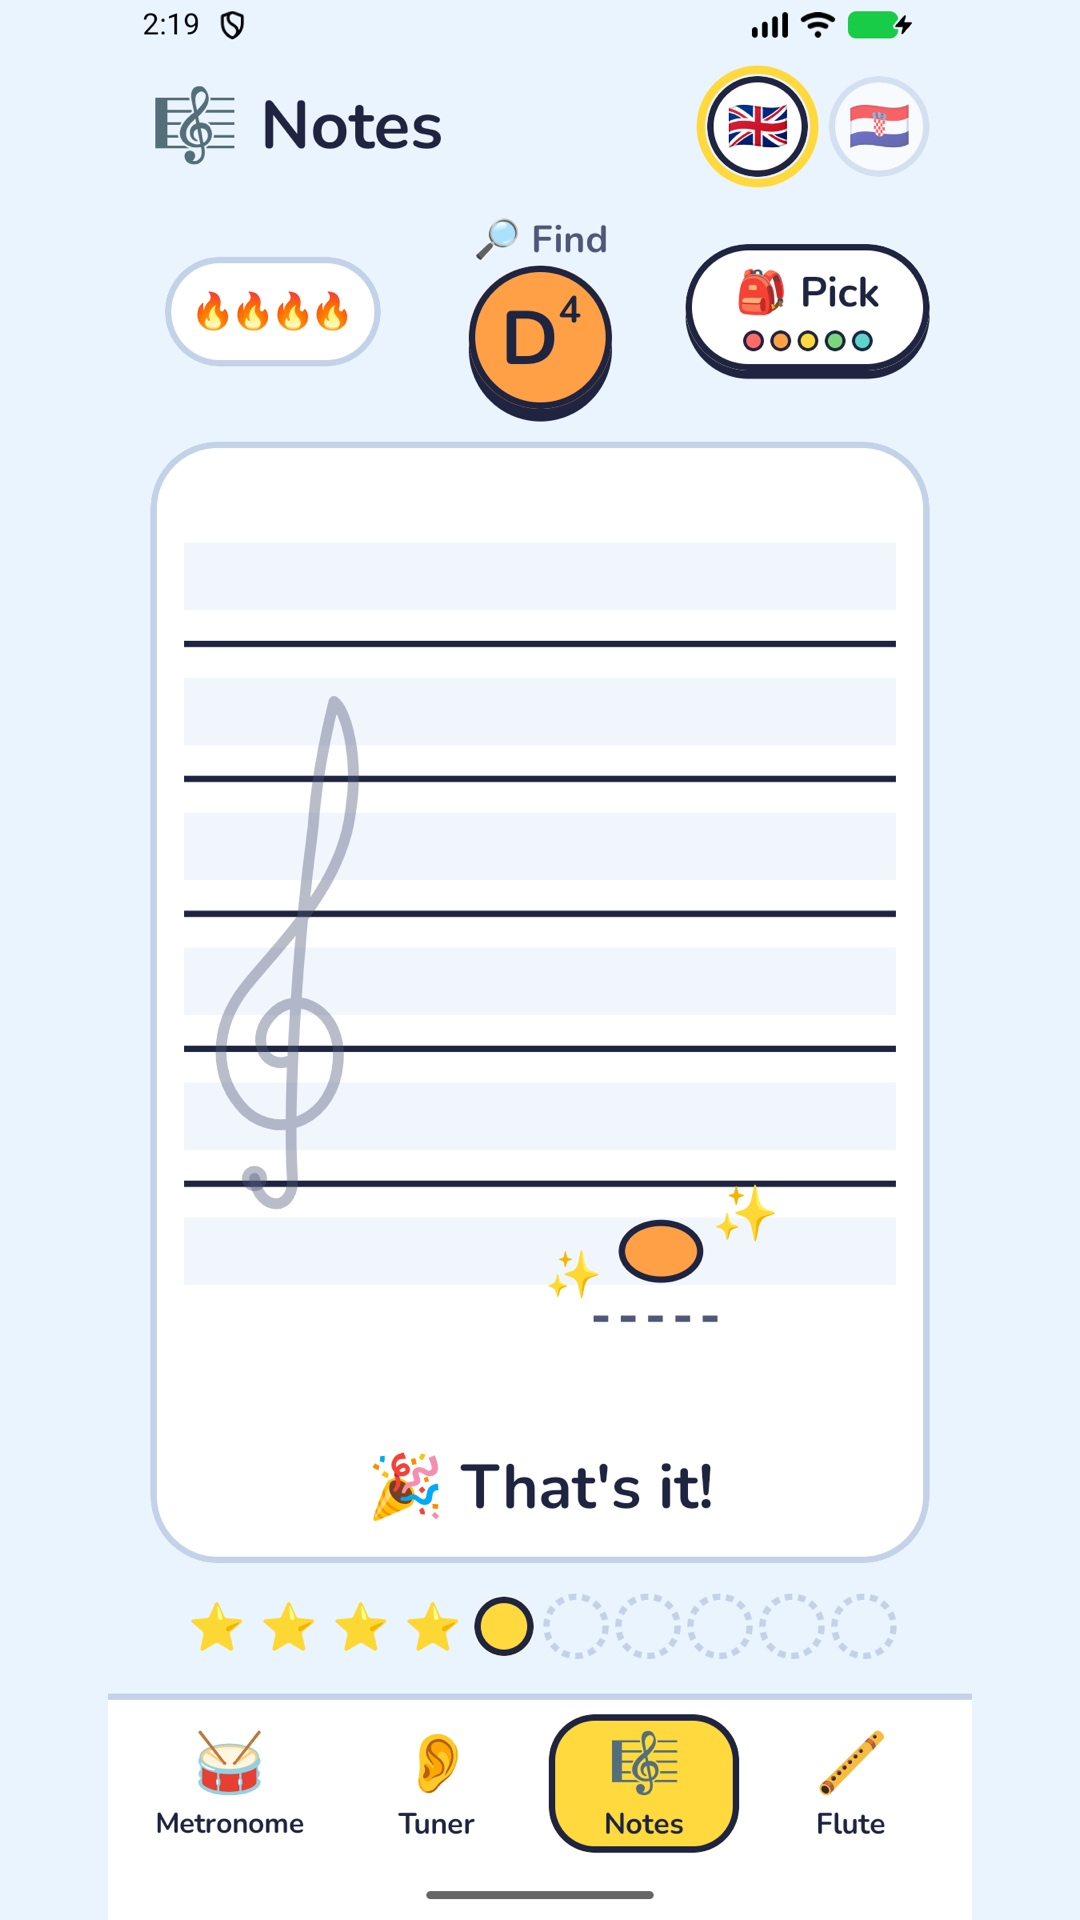
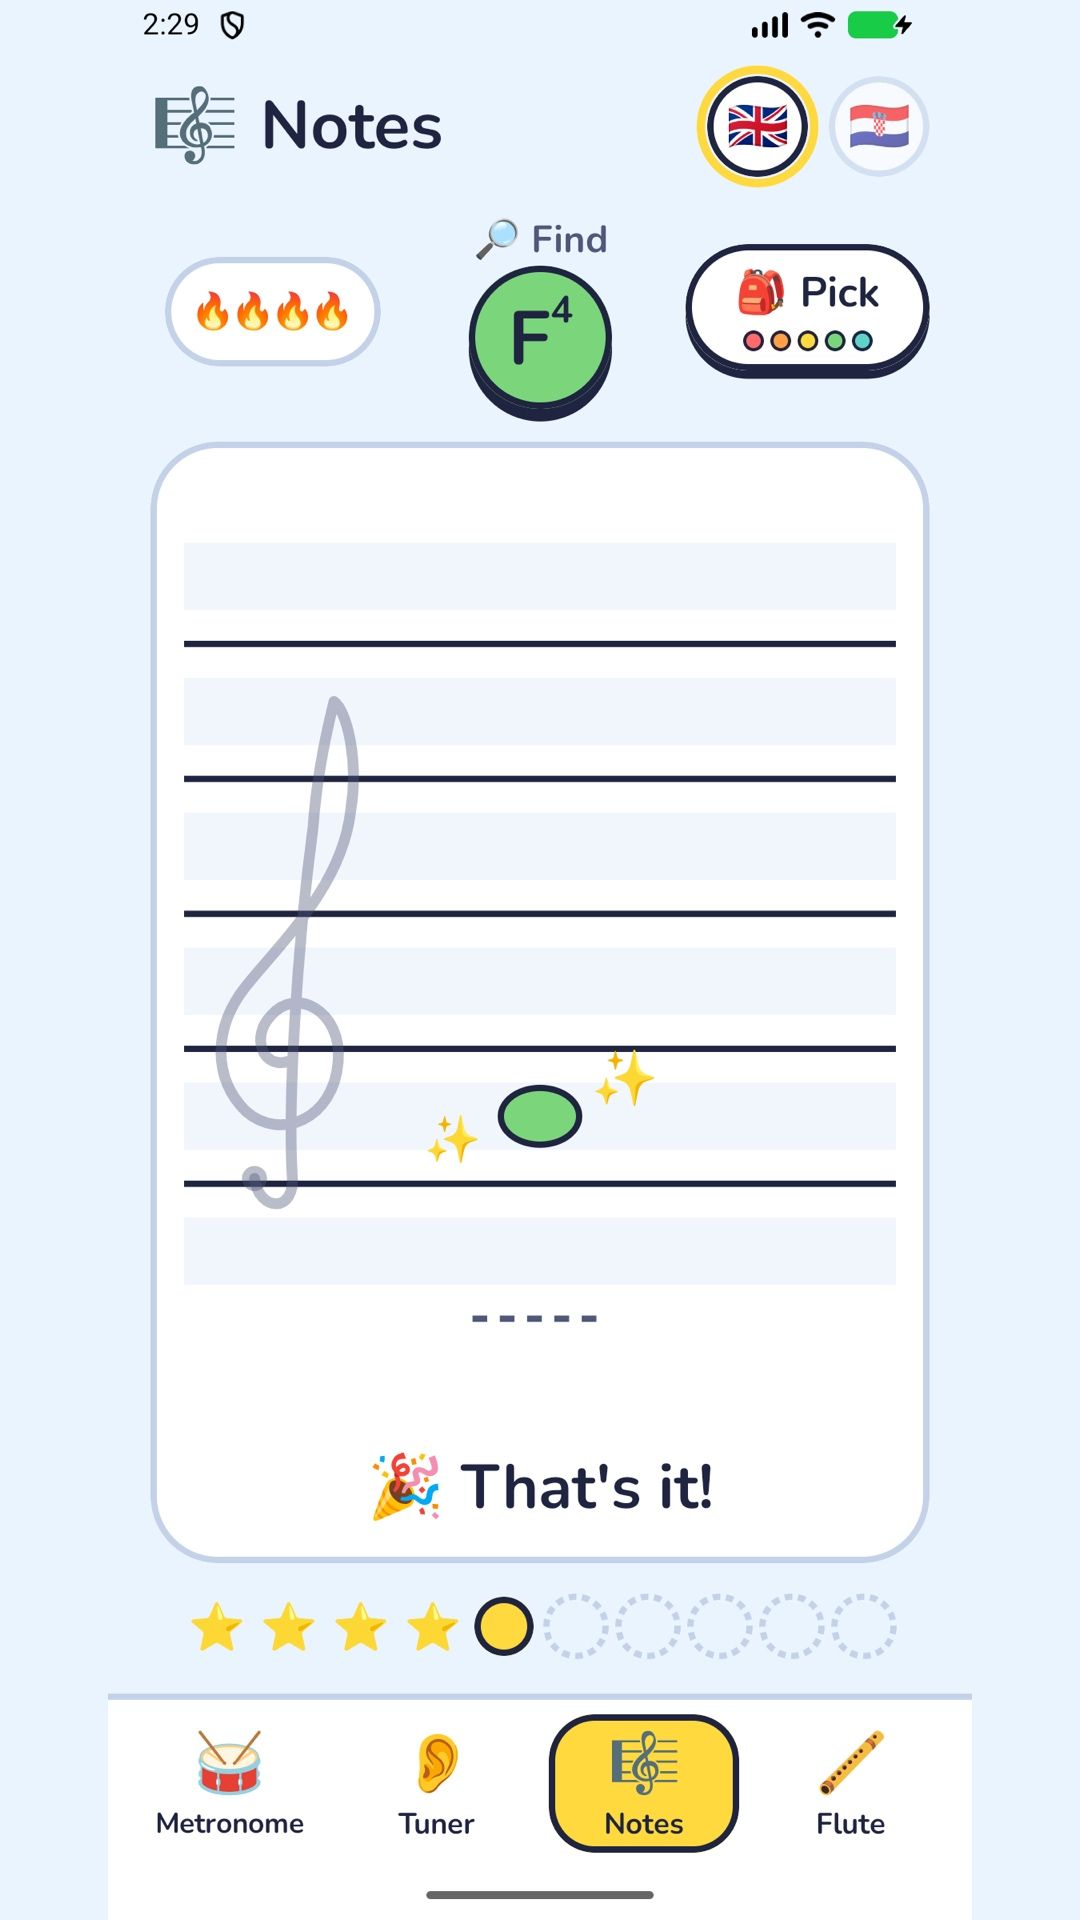
feat(ui): center note column on staff clear of right-handed slide

diff --git a/app/src/androidTest/java/hr/bertlab/fluteassistant/ui/notes/NotesScreenTest.kt b/app/src/androidTest/java/hr/bertlab/fluteassistant/ui/notes/NotesScreenTest.kt
@@ -177,7 +177,7 @@ class NotesScreenTest {
         val before = staff.captureToImage().toPixelMap()
         compose.runOnIdle { state.value = state.value.copy(wrongTaps = setOf(62), lastWrongTap = 62, taps = 1) }
         val after = staff.captureToImage().toPixelMap()
-        val columns = (after.width * 0.6f).toInt()..(after.width * 0.74f).toInt()
+        val columns = (after.width * 0.42f).toInt()..(after.width * 0.58f).toInt()
         val changed = (0 until after.height).filter { y -> columns.any { x -> before[x, y] != after[x, y] } }
         assertTrue("no cross painted", changed.isNotEmpty())
         val d4 = compose.onNodeWithContentDescription("Staff position 2").getBoundsInRoot()

diff --git a/app/src/main/java/hr/bertlab/fluteassistant/ui/notes/NoteStaff.kt b/app/src/main/java/hr/bertlab/fluteassistant/ui/notes/NoteStaff.kt
@@ -40,8 +40,11 @@ import hr.bertlab.fluteassistant.ui.common.noteColor
 import hr.bertlab.fluteassistant.ui.theme.FluteTheme
 import hr.bertlab.fluteassistant.ui.theme.Sun
 
-/** Where the note column sits, as a fraction of the width; the clef takes the left. */
-private const val NOTE_COLUMN = 0.67f
+/**
+ * Where the note column sits, as a fraction of the width: the middle, clear of the clef on the
+ * left and of a right-handed finger sliding on the right, so the see-through note stays in view.
+ */
+private const val NOTE_COLUMN = 0.5f
 
 /**
  * Room kept above the highest place and below the lowest, in places, so the clef's loop and

diff --git a/CLAUDE.md b/CLAUDE.md
@@ -210,8 +210,8 @@ secondary constructor for deterministic tests. `NoteStaff` draws the staff on a 
 and its two neighbouring spaces, d1 to g2, plus the ledger-line places c1, a2, h2, c3 only as
 far as a chosen note needs them, `StaffNotes.visiblePositions`, their ledger lines dashed; every
 place a full-width band, the spaces tinted, the lines thick; a small, faint hand-built clef whose
-curl sits on the G line; one note column at 67 % of the width, after the user rejected a
-two-column split). The child answers by touch and slide: a finger down shows a see-through note
+curl sits on the G line; one note column in the middle of the width, clear of a right-handed
+finger sliding on the right, after the user rejected a two-column split). The child answers by touch and slide: a finger down shows a see-through note
 on the nearest place and turns its band yellow (`placing`, hoisted to `NotesContent` for the
 "Slide, let go" line), it follows the finger with a haptic tick per place, lifting it answers,
 sliding off the staff cancels. A miss is a cross inside its own place (`CROSS_RADIUS` 0.45 of the
